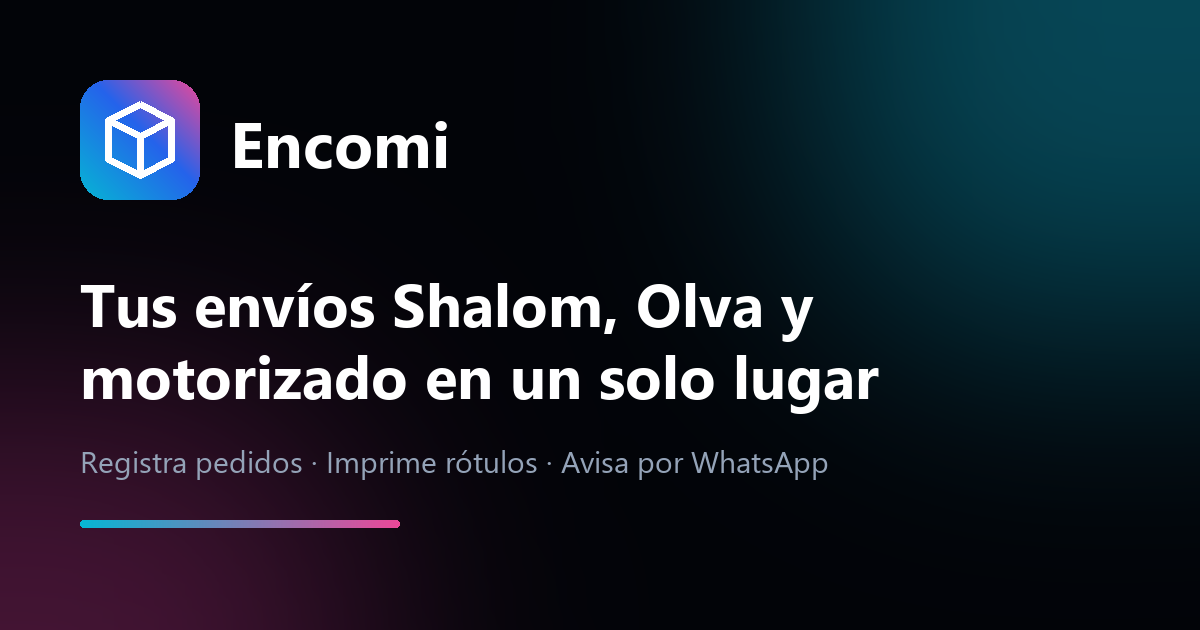
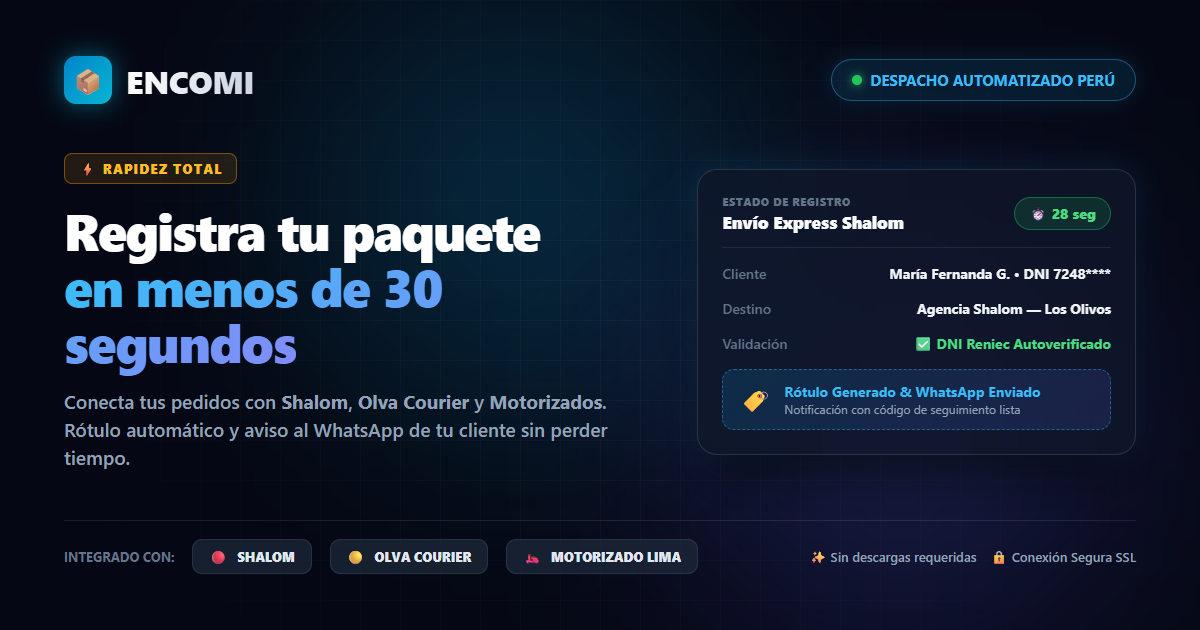
feat(seo): portada y Open Graph con 'registra tu paquete en menos de 30 segundos'

diff --git a/index.html b/index.html
@@ -6,25 +6,34 @@
     <meta name="theme-color" content="#060913" />
     <meta name="color-scheme" content="dark" />
 
-    <title>Encomi — Gestión de envíos Shalom, Olva y motorizado para emprendedores</title>
-    <meta name="description" content="Registra, clasifica y despacha tus paquetes en un solo lugar. Encomi conecta tus pedidos con Shalom, Olva y motorizados en Lima, imprime rótulos y avisa a tus clientas por WhatsApp automáticamente." />
-    <meta name="keywords" content="envíos Shalom, Olva Courier, rótulos de envío, gestión de pedidos, despacho de paquetes, emprendedores Perú, delivery Lima, WhatsApp pedidos" />
+    <title>Encomi — Registra tu paquete en menos de 30 segundos</title>
+    <meta name="title" content="Encomi — Registra tu paquete en menos de 30 segundos" />
+    <meta name="description" content="Registra tu paquete en menos de 30 segundos. Conecta tus envíos con Shalom, Olva Courier y motorizados. Generación de rótulo automático y avisos por WhatsApp." />
+    <meta name="keywords" content="envíos Shalom, Olva Courier, rótulos de envío, registrar paquete, despacho de paquetes, emprendedores Perú, delivery Lima, WhatsApp pedidos" />
     <meta name="author" content="Encomi" />
     <meta name="robots" content="index, follow, max-image-preview:large" />
-    <link rel="canonical" href="https://comikids-encomi-app.vercel.app/" />
+    <link rel="canonical" href="https://encomi.89.117.73.97.sslip.io/" />
 
-    <!-- Open Graph / redes sociales (vista previa al compartir el link por WhatsApp, Facebook, etc.) -->
+    <!-- Open Graph / Redes Sociales (WhatsApp, Instagram, Facebook, Telegram) -->
     <meta property="og:type" content="website" />
     <meta property="og:site_name" content="Encomi" />
     <meta property="og:locale" content="es_PE" />
-    <meta property="og:url" content="https://comikids-encomi-app.vercel.app/" />
-    <meta property="og:title" content="Encomi — Tus envíos Shalom, Olva y motorizado en piloto automático" />
-    <meta property="og:description" content="Registra pedidos, imprime rótulos y avisa a tus clientas por WhatsApp. Hecho para emprendedores en Perú." />
-    <meta property="og:image" content="https://comikids-encomi-app.vercel.app/og-image.png" />
+    <meta property="og:url" content="https://encomi.89.117.73.97.sslip.io/" />
+    <meta property="og:title" content="Encomi — Registra tu paquete en menos de 30 segundos" />
+    <meta property="og:description" content="📦 Registra tu paquete en menos de 30 segundos. Conecta tus envíos con Shalom, Olva Courier y motorizados. Rótulo automático y aviso al WhatsApp de tu cliente." />
+    <meta property="og:image" content="https://encomi.89.117.73.97.sslip.io/og-image.png" />
+    <meta property="og:image:secure_url" content="https://encomi.89.117.73.97.sslip.io/og-image.png" />
+    <meta property="og:image:type" content="image/png" />
+    <meta property="og:image:width" content="1200" />
+    <meta property="og:image:height" content="630" />
+    <meta property="og:image:alt" content="Encomi - Registra tu paquete en menos de 30 segundos" />
+
+    <!-- Twitter / X Card -->
     <meta name="twitter:card" content="summary_large_image" />
-    <meta name="twitter:title" content="Encomi — Gestión de envíos para emprendedores" />
-    <meta name="twitter:description" content="Registra pedidos, imprime rótulos y avisa a tus clientas por WhatsApp." />
-    <meta name="twitter:image" content="https://comikids-encomi-app.vercel.app/og-image.png" />
+    <meta name="twitter:url" content="https://encomi.89.117.73.97.sslip.io/" />
+    <meta name="twitter:title" content="Encomi — Registra tu paquete en menos de 30 segundos" />
+    <meta name="twitter:description" content="📦 Registra tu paquete en menos de 30 segundos. Conecta tus envíos con Shalom, Olva y motorizados. Rótulo automático y aviso por WhatsApp." />
+    <meta name="twitter:image" content="https://encomi.89.117.73.97.sslip.io/og-image.png" />
 
     <!-- PWA: instalable en el celular como app -->
     <link rel="manifest" href="/manifest.webmanifest" />
@@ -48,7 +57,7 @@
         "name": "Encomi",
         "applicationCategory": "BusinessApplication",
         "operatingSystem": "Web, Android",
-        "url": "https://comikids-encomi-app.vercel.app/",
+        "url": "https://encomi.89.117.73.97.sslip.io/",
         "inLanguage": "es-PE",
         "description": "Plataforma para registrar, clasificar y despachar paquetes con Shalom, Olva y motorizados, con rótulos imprimibles y avisos por WhatsApp.",
         "areaServed": { "@type": "Country", "name": "Perú" },
